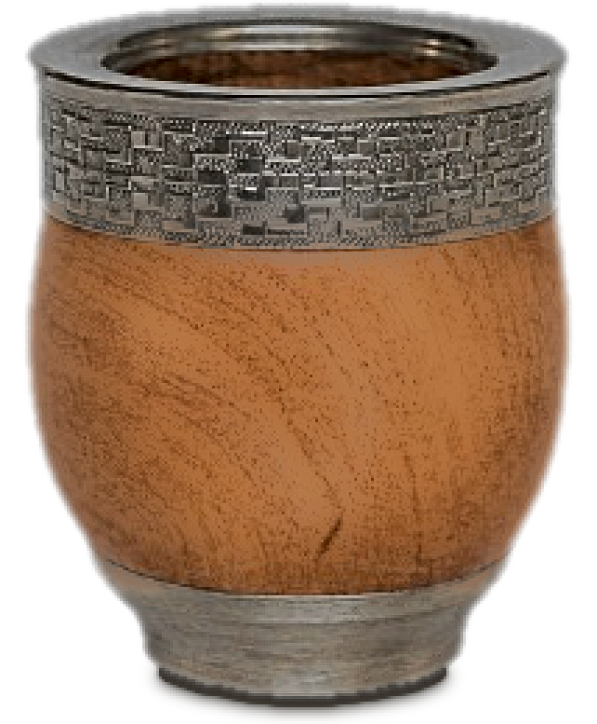
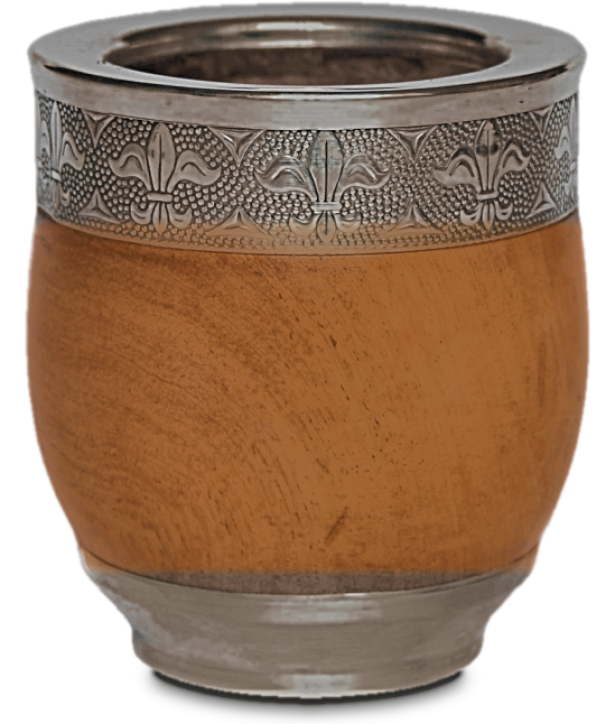
Historia empresas B: imperial con base nuevo (virola flor de lis), con la madera y la luz igualadas a los otros algarrobos
Claude-Session: https://claude.ai/code/session_012H3xPSmbqKoMmc2aK7okNH

diff --git a/src/Root.tsx b/src/Root.tsx
@@ -449,7 +449,7 @@ export const RemotionRoot: React.FC = () => {
           // base), sobre un estante crema. Antes se iguala el color de la madera de
           // los de algarrobo (tools/igualar_madera.py) y se empareja la luz del
           // cuerpo de los seis (tools/sin_brillo.py: filas 140-700, 140-700,
-          // 150-495, 22-690, 178-690 y 198-595) y se baja el brillo del metal
+          // 150-495, 22-690, 178-690 y 225-570) y se baja el brillo del metal
           // sin tocar el cincelado (tools/virola_mate.py, el resto de las filas). Los de calabaza van un poco más
           // abajo (el último número): la foto los muestra desde arriba y la
           // pata de adelante queda más abajo que el piso real.

diff --git a/tools/igualar_madera.py b/tools/igualar_madera.py
@@ -5,6 +5,10 @@ El metal y la sombra quedan como estaban.
 
 Uso:
   python igualar_madera.py RECORTE.png [RECORTE.png ...]   (los reescribe)
+
+Un recorte con "=" adelante (=RECORTE.png) sólo sirve de referencia: cuenta
+para el promedio pero no se reescribe (para sumar uno nuevo a los que ya
+están igualados).
 """
 
 import sys
@@ -23,14 +27,20 @@ def madera(r):
 
 
 def main():
-    rs = [cv2.imread(f, cv2.IMREAD_UNCHANGED) for f in sys.argv[1:]]
+    archivos = [a.lstrip("=") for a in sys.argv[1:]]
+    referencia = [a.startswith("=") for a in sys.argv[1:]]
+    rs = [cv2.imread(f, cv2.IMREAD_UNCHANGED) for f in archivos]
     datos = []
     for r in rs:
         lab, croma, m = madera(r)
         datos.append((lab, croma, m, lab[m].mean(0), lab[m].std(0)))
-    media = np.mean([d[3] for d in datos], 0)
-    desvio = np.mean([d[4] for d in datos], 0)
-    for f, r, (lab, croma, m, mu, sd) in zip(sys.argv[1:], rs, datos):
+    # Si hay referencias, el objetivo es el de ellas; si no, el de todos.
+    base = [d for d, ref in zip(datos, referencia) if ref] or datos
+    media = np.mean([d[3] for d in base], 0)
+    desvio = np.mean([d[4] for d in base], 0)
+    for f, ref, r, (lab, croma, m, mu, sd) in zip(archivos, referencia, rs, datos):
+        if ref:
+            continue
         nuevo = (lab - mu) * (desvio / sd) + media
         # Peso suave según cuánto color tiene el píxel: el metal (gris) no cambia.
         peso = np.clip((croma - 10) / 12, 0, 1) * (r[..., 3] > 0)
